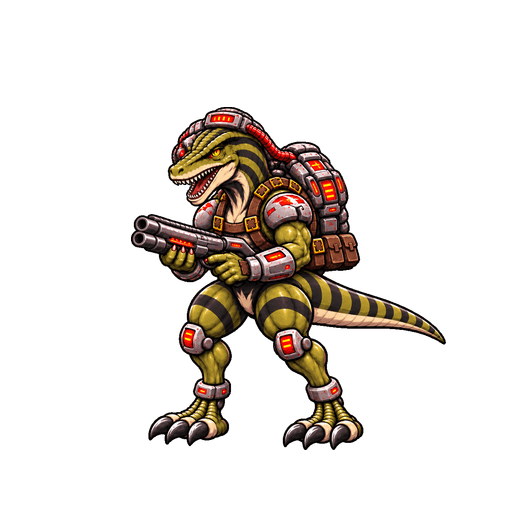
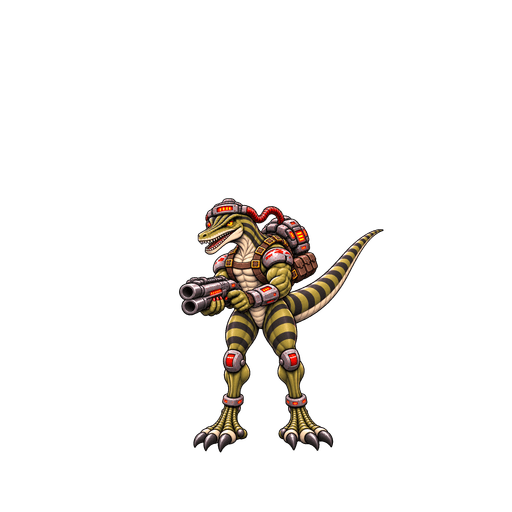
Raptor39T7.6: correct front-left gaits and normalize digital diagonal lab pace

Changed region(s): [[0.25, 0.1875, 0.875, 0.875]]

diff --git a/app/Game.tsx b/app/Game.tsx
@@ -13,7 +13,7 @@ import {type ArenaLayout27c} from "../lib/arenaLayout27c";
 import {updateCamera27c} from "../lib/combatCamera27c";
 import {cameraTarget38,cameraZoomStep38,type CameraMode38} from "../lib/cameraDirector38";
 import PlaytestGuide from "./PlaytestGuide";
-import {paintRaptorSprite} from "../lib/raptorSpriteOnly";
+import {paintRaptorSprite,raptorLabMovement} from "../lib/raptorSpriteOnly";
 import AnimationQaHarness from "./AnimationQaHarness";
 import BayBridgeArena from "./BayBridgeArena";
 import GodModeShell from "./GodModeShell";
@@ -305,7 +305,7 @@ export default function Game({character="jade",cameraPreset="default",combatLab=
  useEffect(()=>{let raf=0;const uiLoop=()=>{try{const pad=[...navigator.getGamepads()].find(Boolean) as Gamepad|undefined;if(pad){const start=!!(pad.buttons[9]?.pressed||pad.buttons[9]?.value>.25);if(start&&!startHeld.current)setStudioMenu(v=>!v);startHeld.current=start}else startHeld.current=false}catch{}raf=requestAnimationFrame(uiLoop)};raf=requestAnimationFrame(uiLoop);return()=>cancelAnimationFrame(raf)},[]);
  useEffect(()=>{let pending=false,dead=false,raf=0,latest:any={...EMPTY},previous:any={...EMPTY},owner:Session|null=null;const queue:any[]=[];
  const sample=()=>{const s=session.current,g=state.current;if(s&&g&&bootReady&&!document.hidden){if(owner!==s){owner=s;queue.length=0;previous={...EMPTY};}
- const p=g.players[s.slot]||g.players[0],i:any={...EMPTY};i.x=touchMove.current.x||((keys.current.KeyD?1:0)-(keys.current.KeyA?1:0));i.y=touchMove.current.y||((keys.current.KeyS?1:0)-(keys.current.KeyW?1:0));i.x*=labPaceRef.current;i.y*=labPaceRef.current;i.jump=touchJump.current;touchJump.current=false;i.slide=slideEdges.current.pressed;touchAEdge.current=false;const muzzle=barrelSocket27d(p,g.config?.spriteScale||.82),zoom=cameraState.ready?cameraState.zoom:g.config?.cameraZoom||1.85;let aimZ=muzzle.z;
+ const p=g.players[s.slot]||g.players[0],i:any={...EMPTY};i.x=touchMove.current.x||((keys.current.KeyD?1:0)-(keys.current.KeyA?1:0));i.y=touchMove.current.y||((keys.current.KeyS?1:0)-(keys.current.KeyW?1:0));if(combatLab&&characterRef.current==="raptor"){Object.assign(i,raptorLabMovement(i.x,i.y,labPaceRef.current));}else{i.x*=labPaceRef.current;i.y*=labPaceRef.current;}i.jump=touchJump.current;touchJump.current=false;i.slide=slideEdges.current.pressed;touchAEdge.current=false;const muzzle=barrelSocket27d(p,g.config?.spriteScale||.82),zoom=cameraState.ready?cameraState.zoom:g.config?.cameraZoom||1.85;let aimZ=muzzle.z;
  for(const [slot,target] of g.players.entries()){if(slot===s.slot||target.hp<=0)continue;const feet=projectWorld(target.x,target.y,cameraState,zoom,target.z||0),height=78*(g.config?.spriteScale||.82)*(target.slide>0?.58:1),width=22*zoom*.64;if(Math.abs(mouse.current.x-feet.x)<=width&&mouse.current.y<=feet.y&&mouse.current.y>=feet.y-height*zoom*.64){aimZ=(target.z||0)+(feet.y-mouse.current.y)/(zoom*.64);break;}}
  const pointer=unprojectWorld(mouse.current.x,mouse.current.y+aimZ*zoom*.64,cameraState,zoom);i.aimX=pointer.x;i.aimY=pointer.y;i.aimZ=aimZ;i.aim=Math.atan2(pointer.y-muzzle.y,pointer.x-muzzle.x);i.cancelGrip34=!!edges.current.CancelGrip34;i.fire=mouse.current.down||!!keys.current.KeyT;i.shield=!!keys.current.KeyE;i.coverAim=!!keys.current.KeyZ;for(const[k,a]of Object.entries(keyAction))i[a]=!!i[a]||!!edges.current[k];edges.current={};i.melee=!!keys.current.KeyF;i.grip=i.grip||!!keys.current.KeyQ;i.gripX=Math.cos(i.aim)*Math.min(1,Math.hypot(pointer.x-p.x,pointer.y-p.y)/psychicField(p).radius);i.gripY=Math.sin(i.aim)*Math.min(1,Math.hypot(pointer.x-p.x,pointer.y-p.y)/psychicField(p).radius);i.slow=!!keys.current.KeyX||touchTime.current;i.powerup=!!keys.current.KeyY||chargePreview.current;
   try{const pad=[...navigator.getGamepads()].find(Boolean) as Gamepad|undefined;const selectors=selectorGate22.current.sample(studioMenu?null:pad||null);if(pad&&!studioMenu){delete i.aimX;delete i.aimY;delete i.aimZ;i.aim=p.aim;readController(pad,i,selectors);if(Math.hypot(i.gripX||0,i.gripY||0)>.15){const v=screenVector46(p.x,p.y,i.gripX,i.gripY);i.aim=Math.atan2(v.y,v.x);i.gripX=v.x;i.gripY=v.y;}}}catch{}
@@ -1415,11 +1415,3 @@ function fxBody47(g:CanvasRenderingContext2D,f:any){
  if(f.type==="slide"||f.type==="dash"||f.type==="brake"){g.strokeStyle=f.type==="dash"?"#63eff1":f.type==="brake"?"#fff1a8":"#ff4aa5";g.shadowColor=g.strokeStyle;g.shadowBlur=f.type==="brake"?14:7;g.lineWidth=f.type==="brake"?4:f.type==="slide"?3:2;const count=f.type==="brake"?6:f.type==="slide"?5:3;for(let i=0;i<count;i++){if(f.type==="brake"&&Number.isFinite(f.oldAngle)){const a=f.oldAngle+Math.PI,near=8+i*4,far=30+i*6;g.beginPath();g.moveTo(f.x+Math.cos(a)*near,f.y+Math.sin(a)*near);g.lineTo(f.x+Math.cos(a)*far,f.y+Math.sin(a)*far);g.stroke()}else{const dir=-1;g.beginPath();g.moveTo(f.x+dir*(8+i*5),f.y+5+i*2);g.lineTo(f.x+dir*((f.type==="slide"?58:42)+i*9),f.y+10+i*3);g.stroke()}}g.shadowBlur=0;if(f.text){g.fillStyle="#d9ffff";g.font="900 italic 18px Arial";g.fillText(f.text,f.x-18,f.y-18)}}else if(f.type==="muzzle"){const a=Number.isFinite(f.angle)?f.angle:0,k=Math.max(0,Math.min(1,f.life/.18));g.save();g.translate(f.x,f.y);g.rotate(a);g.globalCompositeOperation="lighter";g.strokeStyle="#fff3b0";g.shadowColor="#ffcf62";g.shadowBlur=16;g.lineWidth=4;g.globalAlpha=.35+.65*k;g.beginPath();g.moveTo(-5,0);g.lineTo(34+20*k,0);g.stroke();g.fillStyle="#fff7cf";g.beginPath();g.moveTo(2,-10);g.lineTo(44+18*k,0);g.lineTo(2,10);g.lineTo(13,0);g.closePath();g.fill();g.strokeStyle="#ff5ebd";g.lineWidth=2;for(let j=-2;j<=2;j++){const aa=j*.12,len=30+Math.abs(j)*6+18*k;g.beginPath();g.moveTo(5,0);g.lineTo(Math.cos(aa)*len,Math.sin(aa)*len);g.stroke()}g.restore()}else{g.strokeStyle=f.type==="pinball"?"#ff4aaa":"#64edf0";g.lineWidth=3;for(let i=0;i<8;i++){const a=i*Math.PI/4,r=10+(1-f.life)*25;g.beginPath();g.moveTo(f.x,f.y);g.lineTo(f.x+Math.cos(a)*r,f.y+Math.sin(a)*r);g.stroke()}}g.restore()}
 
 function arrow(g:CanvasRenderingContext2D,x1:number,y1:number,x2:number,y2:number){const a=Math.atan2(y2-y1,x2-x1);g.beginPath();g.moveTo(x1,y1);g.lineTo(x2,y2);g.stroke();g.beginPath();g.moveTo(x2,y2);g.lineTo(x2-Math.cos(a-.55)*11,y2-Math.sin(a-.55)*11);g.lineTo(x2-Math.cos(a+.55)*11,y2-Math.sin(a+.55)*11);g.closePath();g.fill()}
-
-
-
-
-
-
-
-

diff --git a/app/studio/character-lab/page.tsx b/app/studio/character-lab/page.tsx
@@ -23,15 +23,15 @@ export default function CombatLab(){
  return <main style={{minHeight:"100vh",background:"#08101b",color:"#f5fbff",fontFamily:"Arial",padding:"max(25px,env(safe-area-inset-top)) 20px"}}>
   <div style={{maxWidth:800,margin:"auto"}}>
    <a href="/studio" style={{color:"#89e9f2"}}>← BACK TO STUDIO</a>
-   <p style={{color:"#ff8d9e",letterSpacing:2,fontSize:12}}>GOD MODE / BUILD 39T7.5 PLAYTEST</p>
+   <p style={{color:"#ff8d9e",letterSpacing:2,fontSize:12}}>GOD MODE / BUILD 39T7.6 PLAYTEST</p>
    <h1>COMBAT LAB</h1>
    <a href="/raptor-animation-review.html" style={{color:"#89e9f2"}}>Review all run and slide frames</a>
    <p>Both fighters use the newer XYZ combat engine. This is a test build, not a production character unlock.</p>
    <div style={{display:"grid",gridTemplateColumns:"repeat(auto-fit,minmax(230px,1fr))",gap:14,marginTop:25}}>
     <button style={button} onClick={()=>setFighter("jade")}>JADE <small style={{display:"block",fontWeight:400,marginTop:10}}>Existing gameplay baseline</small></button>
-    <button disabled={artReady!==true} style={{...button,borderColor:"#ff925e",opacity:artReady?1:.5}} onClick={()=>setFighter("raptor")}>RAPTOR V2 <small style={{display:"block",fontWeight:400,marginTop:10}}>{artReady===null?"Loading Raptor artwork…":artReady?"Front-right gait pilot · Other views under review":"Artwork failed to load — reload to retry"}</small></button>
+    <button disabled={artReady!==true} style={{...button,borderColor:"#ff925e",opacity:artReady?1:.5}} onClick={()=>setFighter("raptor")}>RAPTOR V2 <small style={{display:"block",fontWeight:400,marginTop:10}}>{artReady===null?"Loading Raptor artwork…":artReady?"Front-diagonal gait pilots · Other views under review":"Artwork failed to load — reload to retry"}</small></button>
    </div>
-   <p style={{color:"#f5bf8e",fontSize:13,marginTop:24}}>Standing now has dedicated artwork in all eight directions. Left, right, and front-right movement have dedicated stalk and jog cycles; the other five slow directions remain provisional. Sprint continuity and firing-effect alignment are still under review. Use the pace selector with keyboard or touch to review the transitions. Controller stick pressure remains analog. Moving fire follows aim.</p>
+   <p style={{color:"#f5bf8e",fontSize:13,marginTop:24}}>Standing now has dedicated artwork in all eight directions. Left, right, front-left, and front-right movement have dedicated stalk and jog cycles; the other four slow directions remain provisional. Sprint continuity and firing-effect alignment are still under review. Use the pace selector with keyboard or touch to review the transitions. Controller stick pressure remains analog. Moving fire follows aim.</p>
   </div>
  </main>;
 }

diff --git a/lib/raptorSpriteOnly.ts b/lib/raptorSpriteOnly.ts
@@ -14,6 +14,13 @@ const postureDirections:readonly string[]=inventory.postureDirections;
 const hasPostures=(angle:number)=>postureDirections.includes(selectRaptorDirection(angle));
 export type RaptorVisualState={x:number;y:number;angle:number;speed:number;sliding:boolean;airborne:boolean;hit:boolean;firing:boolean;time:number;scale:number;slideRemaining?:number;slideDuration?:number;attached?:boolean;actorId?:string;worldX?:number;worldY?:number;travelAngle?:number};
 export type RaptorRegistration={anchor:number[];drawScale?:number};
+/** Clamp digital diagonals before applying the lab's simulated stick pressure.
+ * Controller values bypass this helper and retain their native analog magnitude.
+ */
+export function raptorLabMovement(x:number,y:number,pace:number){
+ const magnitude=Math.max(1,Math.hypot(x,y)),factor=pace/magnitude;
+ return {x:x*factor,y:y*factor};
+}
 /** Uniform authored-scale compensation; anchors remain pinned to the same world point.
  * Wide slide poses can use more texture space without shrinking their torso in game.
  * Legacy frames without metadata retain their exact previous placement.

diff --git a/docs/raptor-39t7-anatomy-audit.md b/docs/raptor-39t7-anatomy-audit.md
@@ -89,3 +89,8 @@ Right corrected inventory now idle1/stalk4/jog4/slide3; left corrected idle1/sta
 
 ## 39T7.5 front-right pilot
 Nine front-right replacements/new assets passed static cycle review and local file checks: idle1/stalk4/jog4. Both contact phases exchange leading thighs; passing phases exchange support legs. Uniform .2 source-canvas scale, pelvis projection x650 and ground reference y1270; no individual bounding-box normalization. Source9 images all1199x1312.512PNG export, alpha edges and SHA256 validated. Added front-right to postureDirections only after both4-frame cycles were present. All three installed posture directions retain all4 phases in selection tests including moving fire. Runtime inventory becomes88unique images plus32run aliases=120paths. Total30 anatomy pilot images across39T7.3–5. Five directions still lack stalk/jog (40images). This does not accept old front-right sprint or complete transition/firing alignment.39T7.5 live verification pending. Front-left new master exec-54854b55-7105-4d44-98a8-96348d1e5a73.png and its newly generated gaits remain uninstalled.
+
+## 39T7.5 live result / 39T7.6 staged changes
+39T7.5 code81c8c2aa17f334a9daac38163634ef59e7d8a5d2 deployed SUCCESS (0459fa1b-46e9-4d75-a659-3749808bcc08). Fresh lab/review show39T7.5 and120loadedpaths. Front-right stalk painted0,1,2,3 using touch-right plus keyboardS. Jog pace unexpectedly reached sprint0,1,2,3 because digital diagonal axes were scaled before normalizing magnitude. Therefore diagonal jog gameplay was NOT passed.
+39T7.6 adds raptorLabMovement: normalize vector only when magnitude>1, then apply labpace. Applied only in Raptor combatLab keyboard/touch branch; native controller read remains afterward and unchanged. All8direction magnitude/angle tests pass at.25/.55/1, zero/subunit input preserved.39T6.2 edge queues untouched. Local four-direction gait/hysteresis/fire/registration tests pass.
+Front-left idle1/stalk4/jog4 pilot exported at fixed.2source scale with pelvisx500/groundy1270 registration, all1199x1312sourcecanvas.9transparent512PNGs validated SHA256/clearborders. StalkcontactA original56caaea9 rejected for repeated leading thigh; c6d97913 corrects it. Initial jog7dc08889 rejected for enlargedhead;14b9a3f2 corrects head/tail. Passing65bfb2e2 rejected for shortenedsnout;bab67c2b corrects it. Final phase sourceIDs stored inmanifest.39T7.6inventory96uniqueimages+32runaliases=128paths.39pilot anatomy images installed across four slow-gait directions and rightslide. Fourdirections(front/back/back-left/back-right)stilllackstalk4+jog4=32images. Allsprintcontinuity, remainingidle/slides, muzzle/shot alignment and fullgameplaymatrix remain open. Front/back standing replacements currentlygenerating, notaccepted/installed.39T7.6deployment/gameplay pending.
